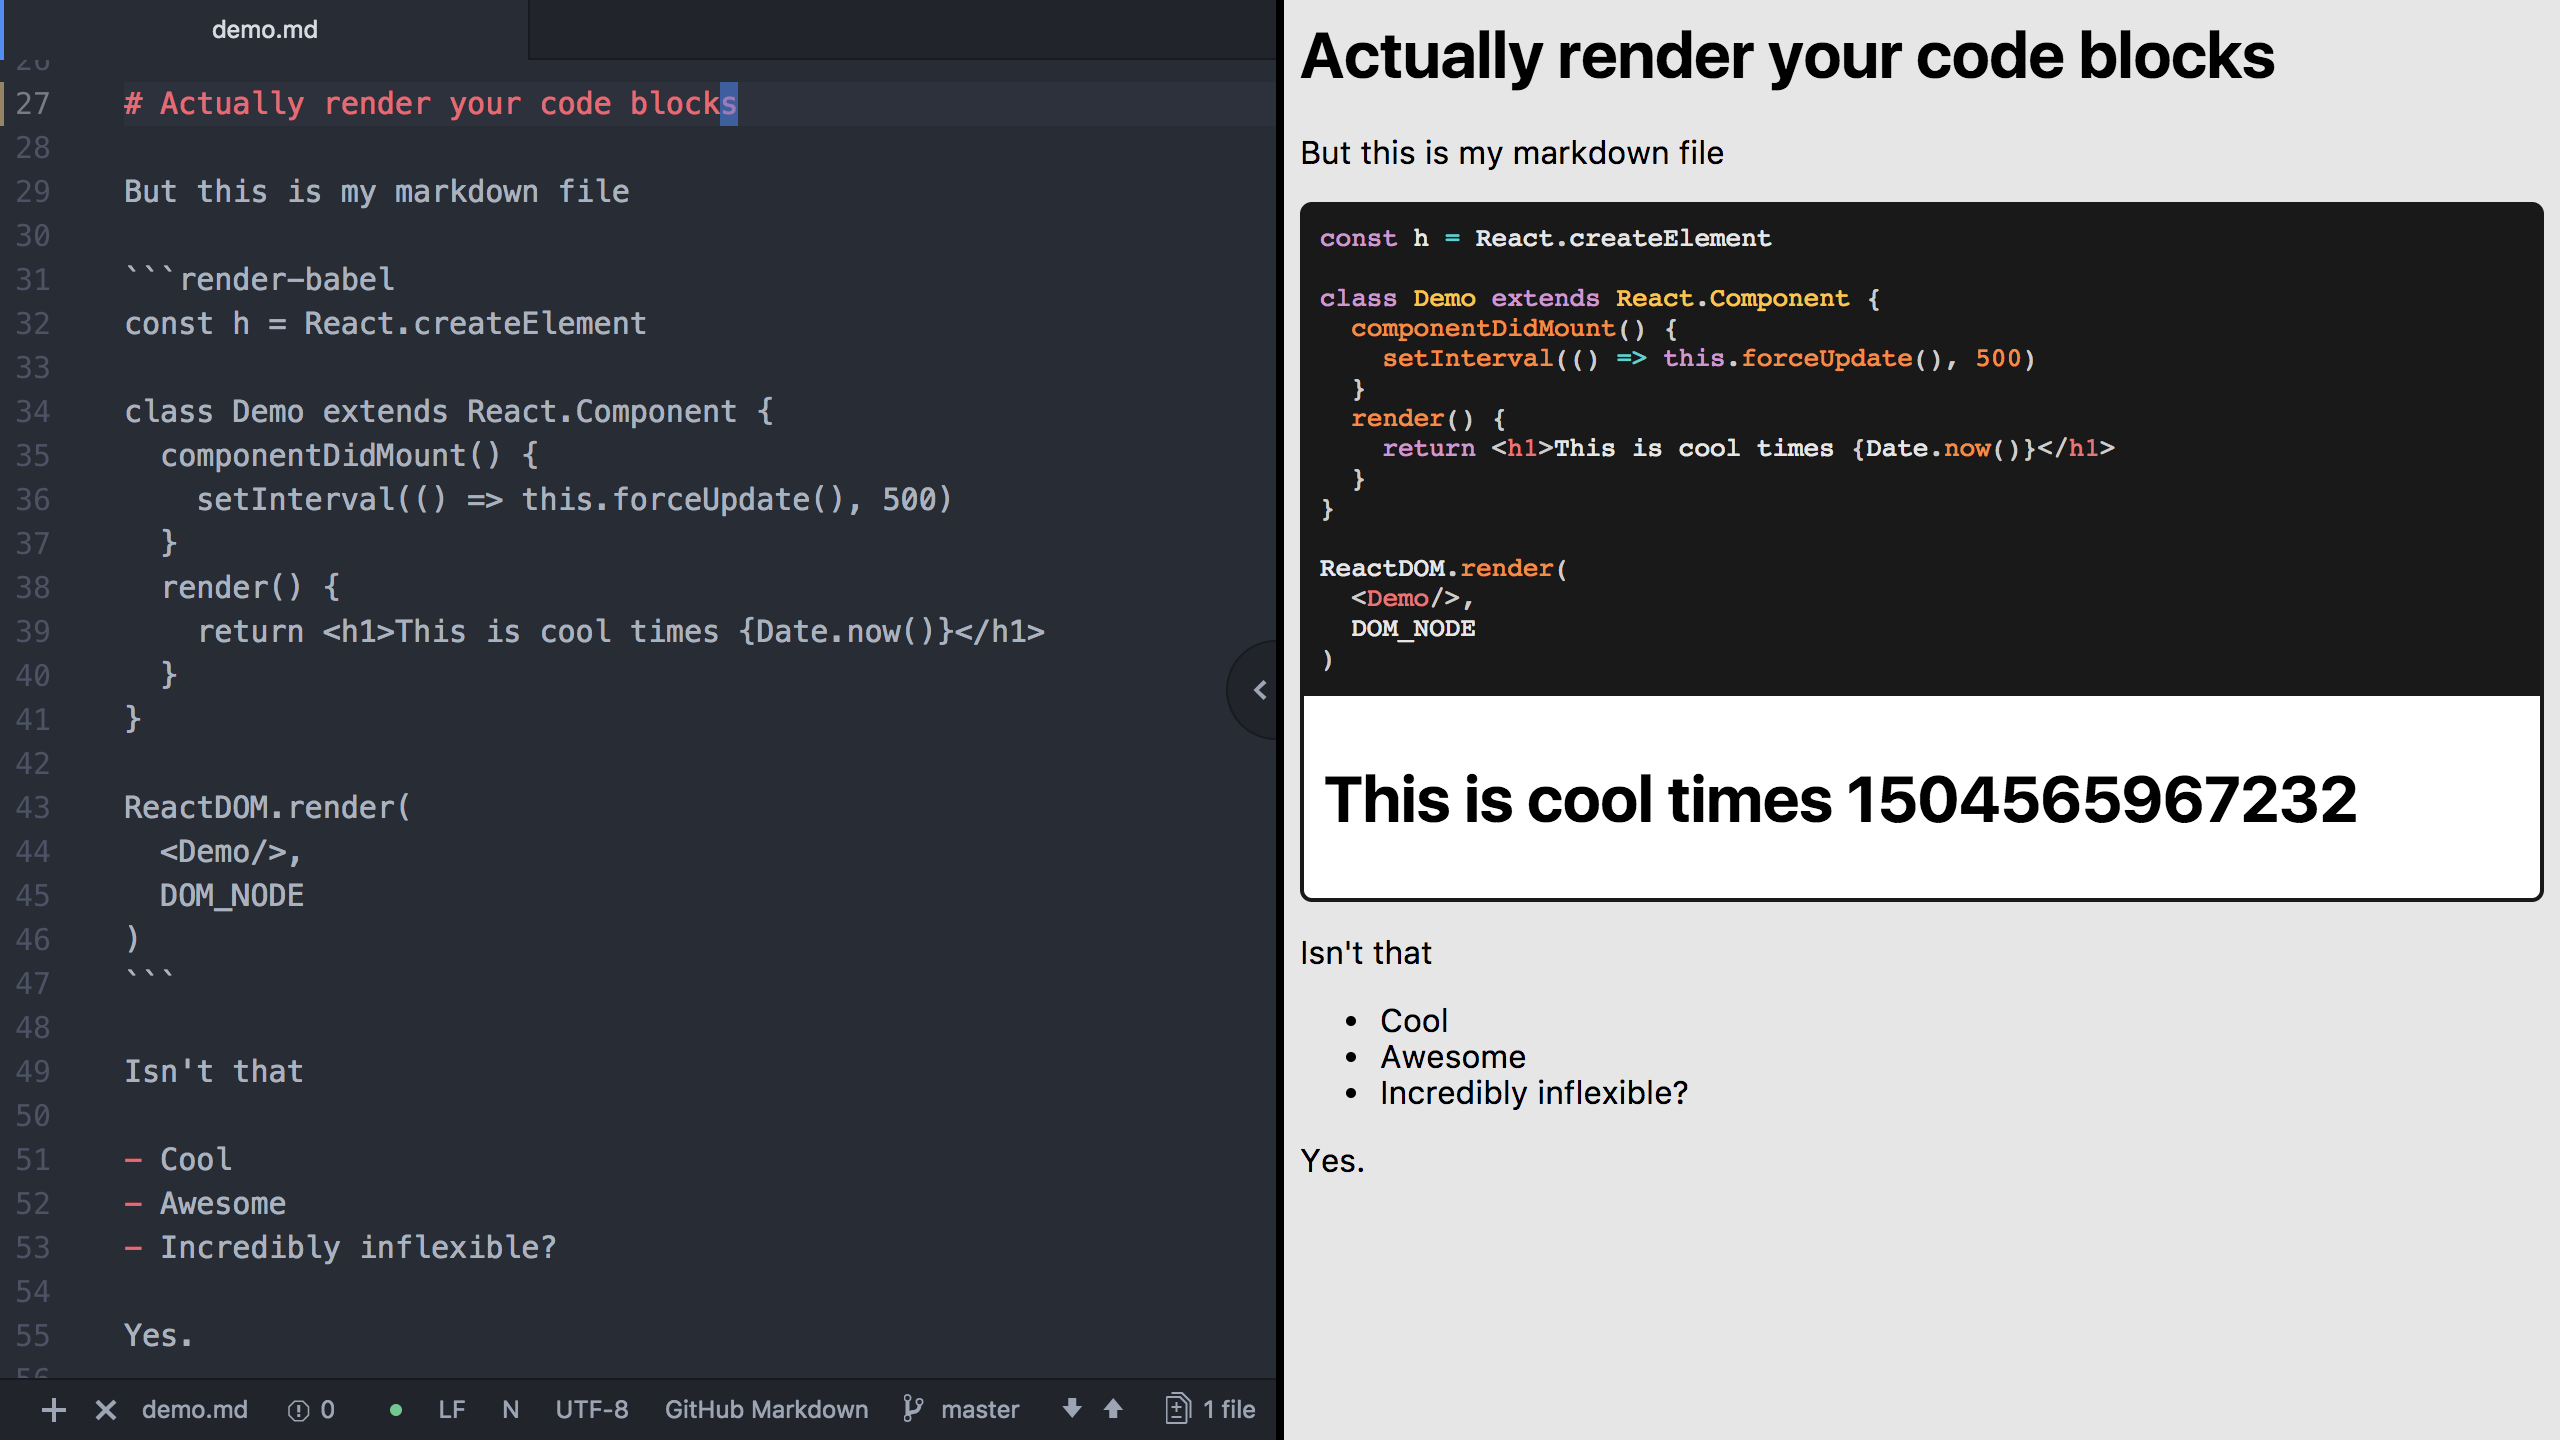
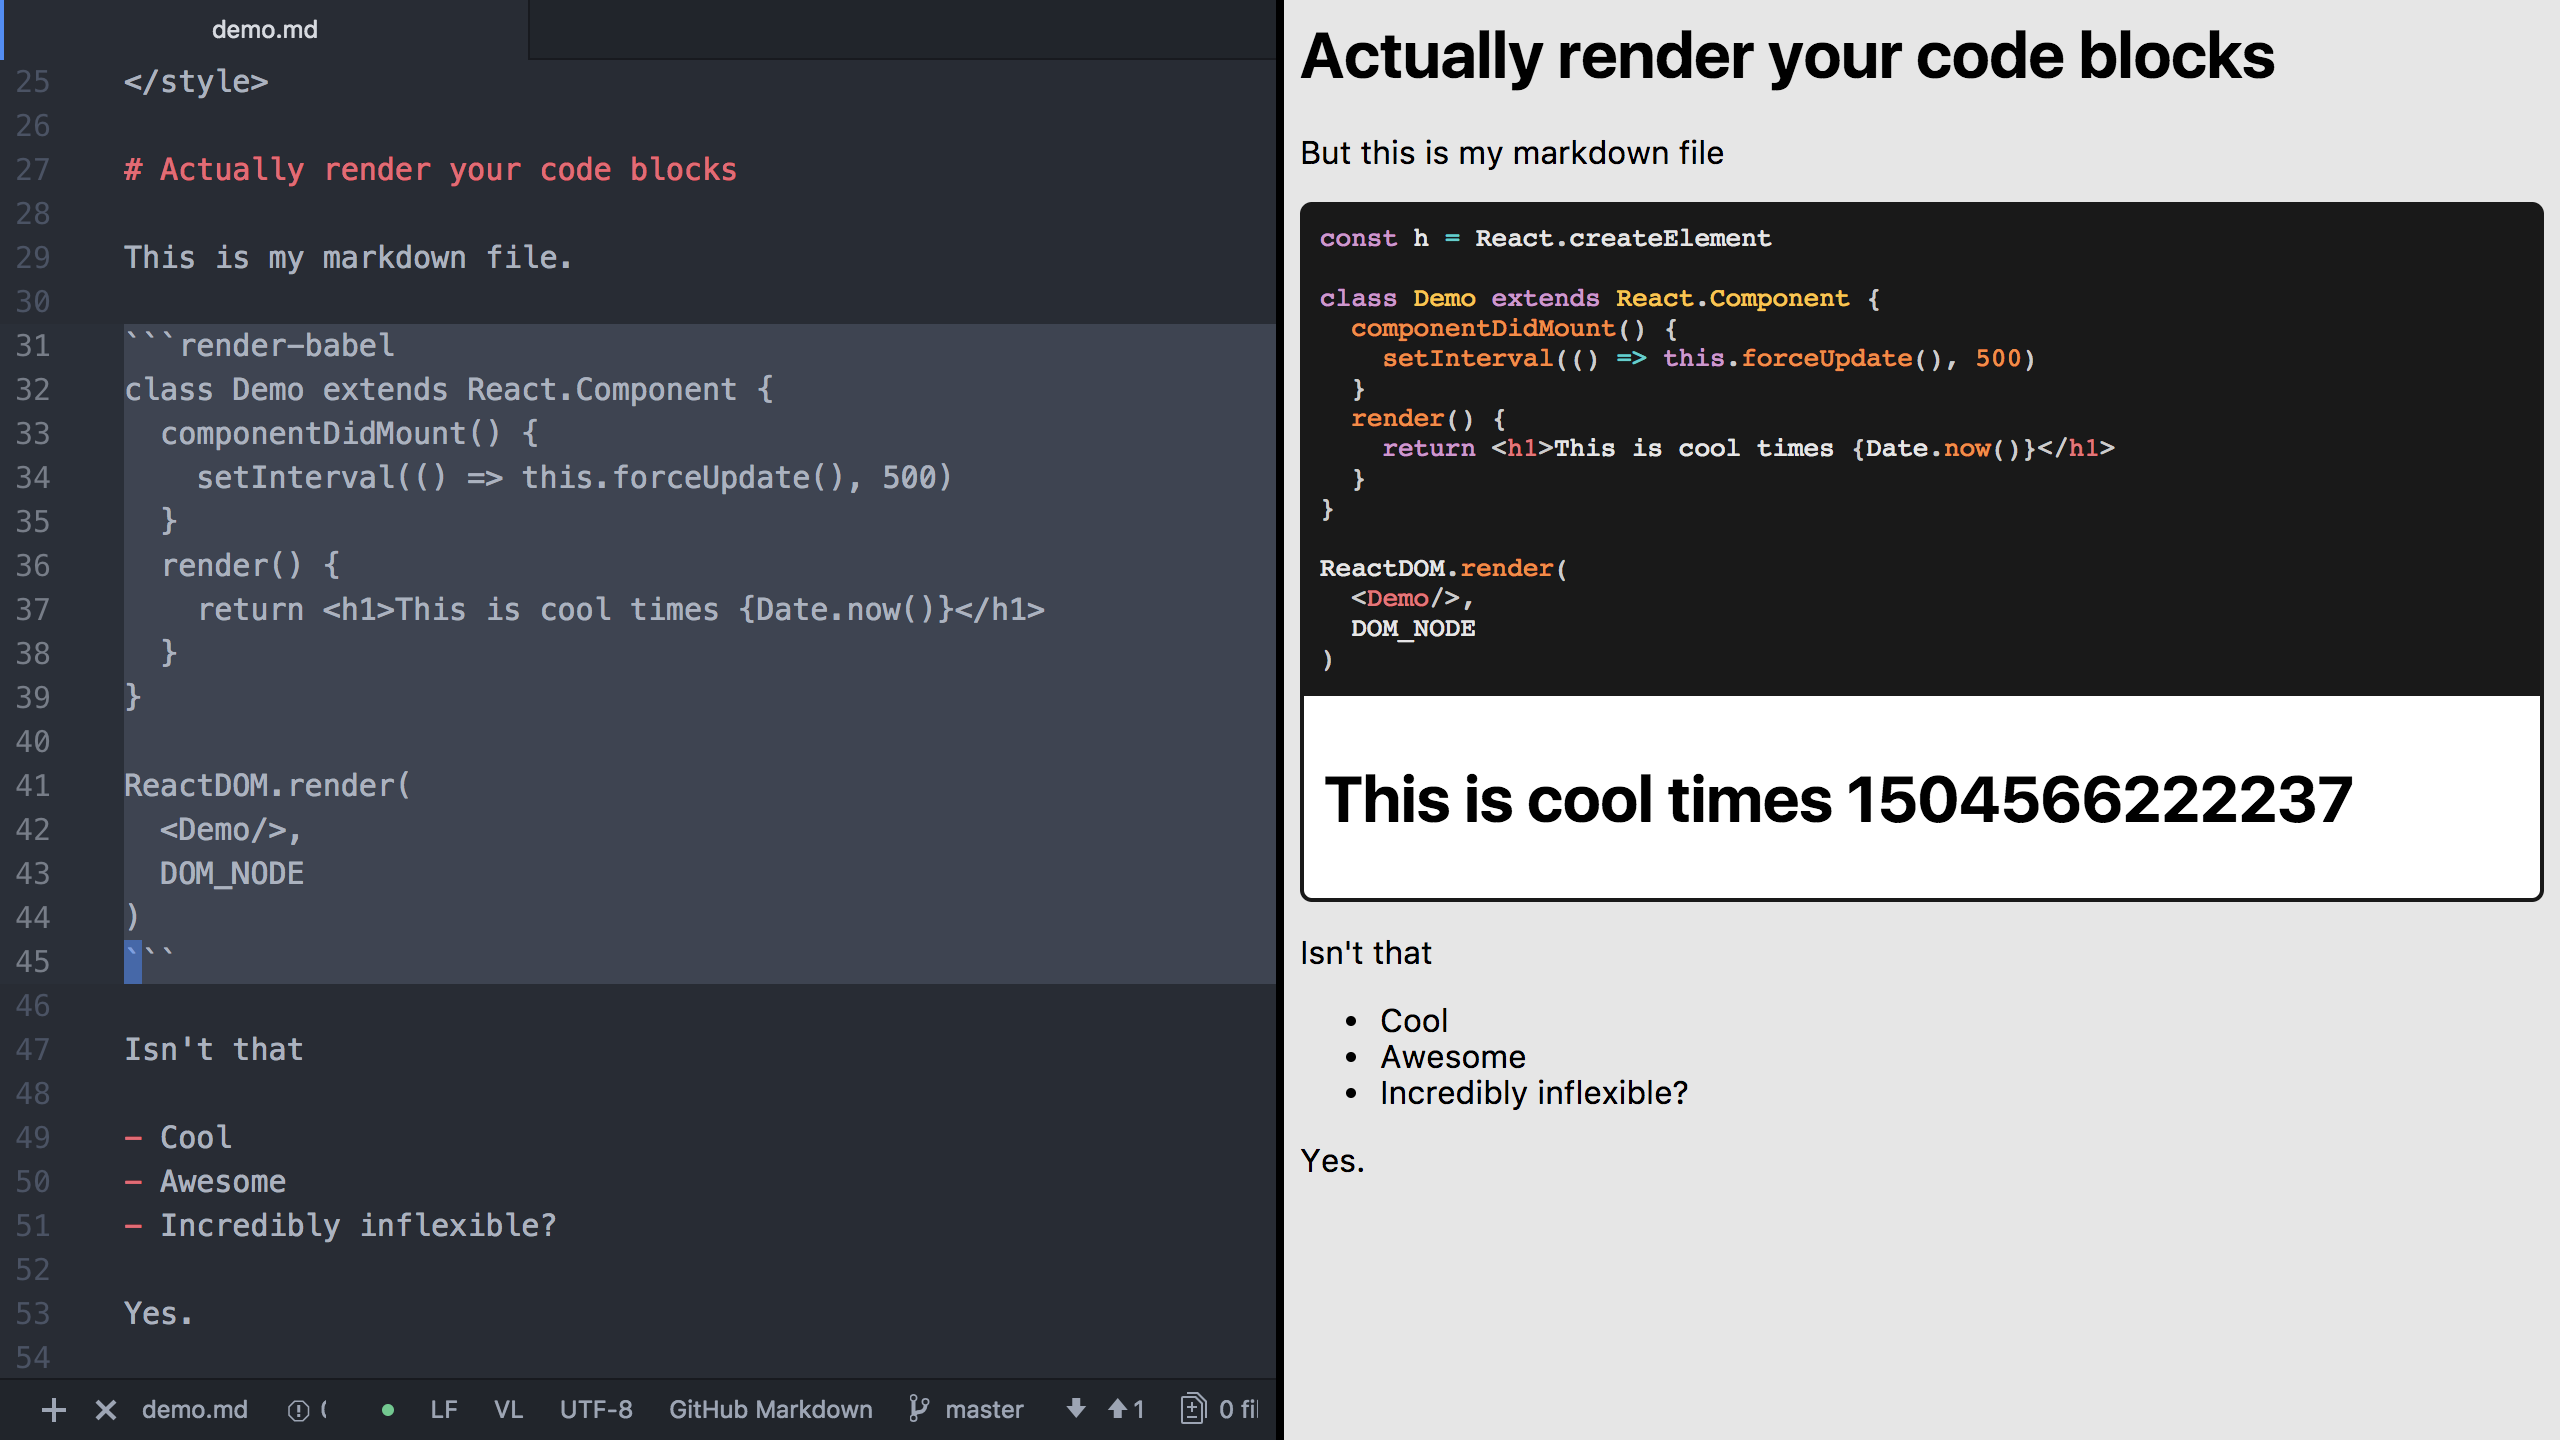
Lol how do you even open source

diff --git a/bin/cli.js b/bin/cli.js
@@ -1,5 +1,5 @@
 #!/usr/bin/env node
-const renderJS = require("../index")
+const render = require("../index")
 const fs = require("fs")
 
 const file = process.argv[2]
@@ -7,4 +7,4 @@ if (!file) {
   console.log("I need a file, do `render-js <file path>`.")
 }
 
-console.log(renderJS(fs.readFileSync(file).toString()))
+console.log(render(fs.readFileSync(file).toString()))

diff --git a/index.js b/index.js
@@ -2,8 +2,6 @@ const fs = require("fs")
 const MarkdownIt = require("markdown-it")
 const Prism = require("prismjs")
 
-const source = fs.readFileSync("./demo.md").toString()
-
 const aliases = {
   js: "jsx",
   render: "jsx",

diff --git a/demo.md b/demo.md
@@ -26,11 +26,9 @@ pre {
 
 # Actually render your code blocks
 
-But this is my markdown file
+This is my markdown file.
 
 ```render-babel
-const h = React.createElement
-
 class Demo extends React.Component {
   componentDidMount() {
     setInterval(() => this.forceUpdate(), 500)
